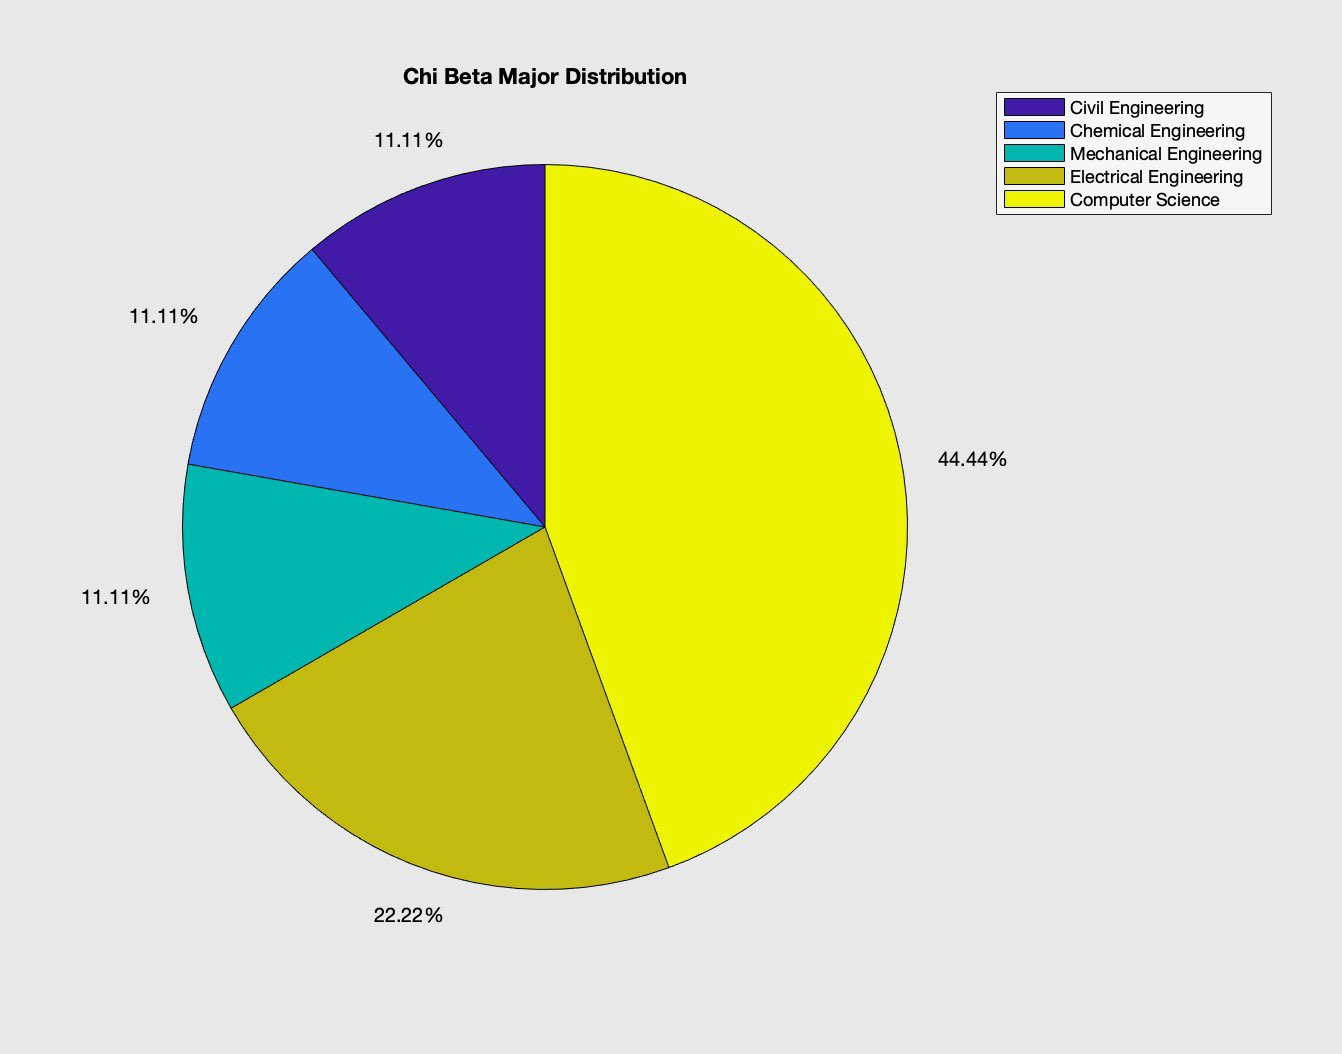
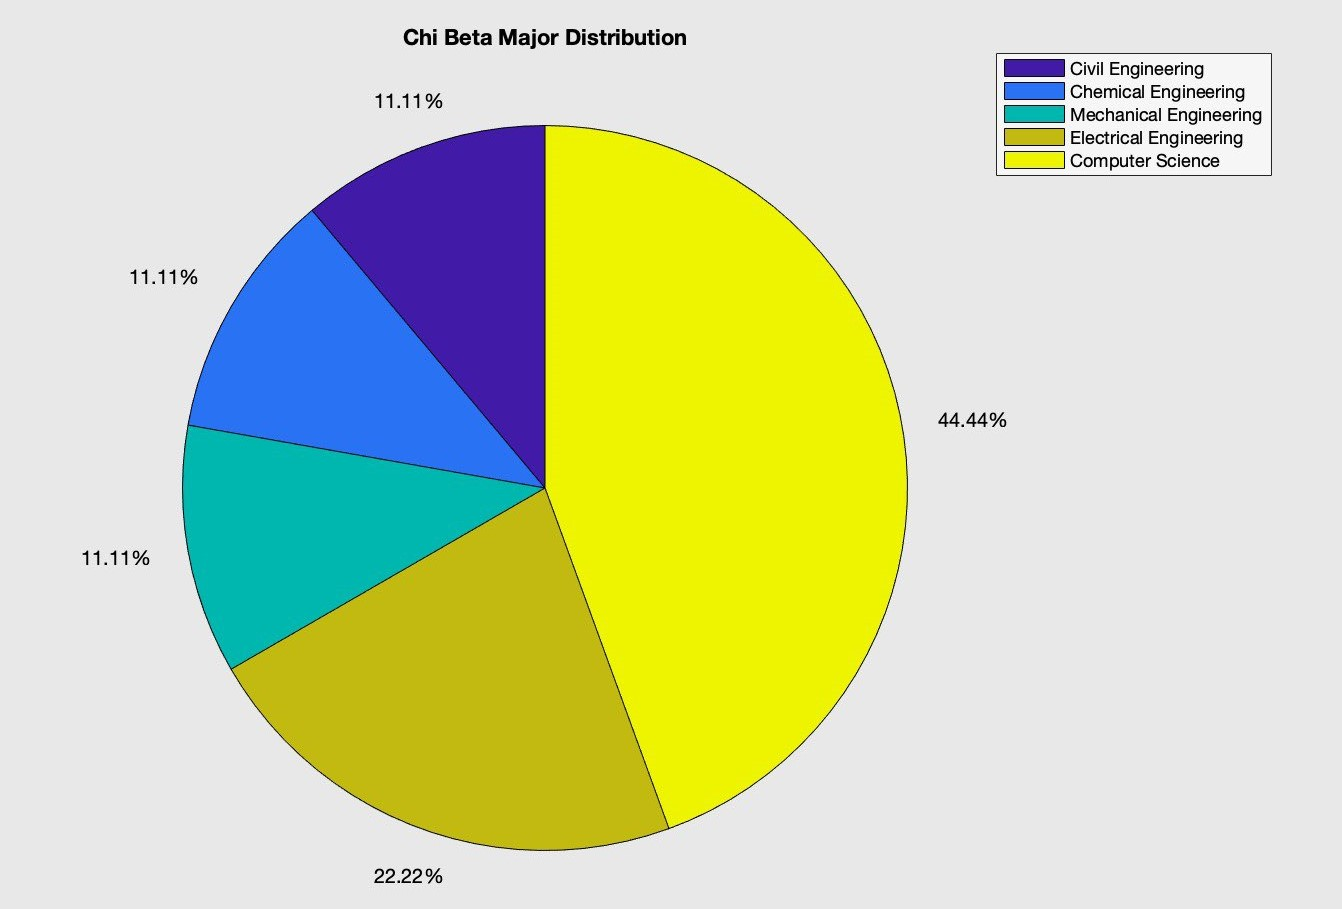
personal page

diff --git a/Main Page/Hao Zhu.html b/Main Page/Hao Zhu.html
@@ -12,6 +12,7 @@
     <link href="https://fonts.googleapis.com/css2?family=Josefin+Sans&display=swap" rel="stylesheet"> 
     <link rel="canonical" href="https://getbootstrap.com/docs/5.2/examples/carousel/">
     <link href="PB.min.css" rel="stylesheet">
+    <link rel="shortcut icon" href="https://thetatau.wpengine.com/wp-content/uploads/2022/05/logo-crest-footer.svg" type="image/x-icon"/>
 
     <style>
       .bd-placeholder-img {
@@ -120,12 +121,12 @@
       <a href="https://www.linkedin.com/in/hao-qin-zhu-68b4831b5/" target="_blank"><button type="button" class="btn btn-danger">My LinkedIn Profile</button></a>
       <hr class="featurette divider">
       <h1 style = color:darkred>My Pledging Experience</h1>
-        <h3 style = color:#f0ad4e >Construction (Cutting)</h3>
-        <p style =color:#000000>During the cutting phase of the construction project, I learned to make use of different tools in the woodshop, like the table saw, band saw, wall saw, and chop saw. Coordination during this phase was crucial as well, and I improved my time management skills by working out time slots with my pledge brothers to see who can go to the woodshop and who can stay at lab staffing.</p>
-        <h3 style = color:#f0ad4e >Construction (Assembly)</h3>
-        <p style =color:#000000>During the assembling phase of the construction project, I learned the intricate details on how the pieces of wood are put together. Before this I never thought about what goes inside a structure to make it stable, and I learned that supports were put inside. During the painting phase, I learned that it takes multiple coats of paint for the intended shade of a color to show when it dries.</p>
+        <h3 style = color:#f0ad4e >Construction</h3>
+        <p style =color:#000000>During the cutting phase of the construction project, I learned to make use of different tools in the woodshop, like the table saw, band saw, wall saw, and chop saw. Coordination during this phase was crucial as well, and I improved my time management skills by working out time slots with my pledge brothers to see who can go to the woodshop and who can stay at lab staffing. During the assembling phase of the construction project, I learned the intricate details on how the pieces of wood are put together. Before this I never thought about what goes inside a structure to make it stable, and I learned that supports were put inside. During the painting phase, I learned that it takes multiple coats of paint for the intended shade of a color to show when it dries.</p>
         <h3 style = color:#f0ad4e >Coding</h3>
         <p style =color:#000000>Currently, me and my pledge brothers are working together to bring this website to fruition. I enjoyed both working with my computer science pledge brothers as well as guiding my non computer science pledge brothers on how to work on the pages of the site. What you see currently is the culmination of our dedicated time and hard work.</p>
+        <h3 style = color:#f0ad4e >Being the Scribe</h3>
+        <p style =color:#000000>As the Scribe of our pledge class, I am responsible for taking notes on what occurs during our chapter and pledge meetings. Additionally, I send out reminders to my pledge brothers about upcoming events as well as important dates that we should know. I have also created answer keys to our quizzes for the pledge brothers that are struggling to remember the material.</p>
       </ul></p>
       <hr class="featurette-divider">
       <h1 style = color:darkred>Job Interests</h1>
@@ -137,6 +138,7 @@
         <li style =color:#000000>Since starting this website project, I realized that I am interested in doing UI/UX design as well. I have enjoyed working on this project with my pledge brothers and working out how the website looks and feels to the eyes of the user.</li>
         </ul></p>
       <hr class="featurette-divider"> 
+      <h1 style = color:darkred>Personal Gallery</h1>
     </div>
      <div class="row" style =color:#000000>
       <div class="col-lg-4">

diff --git a/Main Page/PNM.html b/Main Page/PNM.html
@@ -199,7 +199,7 @@
     
 
     <h1 style="text-align:center; color:#610505; font-size:50px"><b>Potential New Member Major Distribution</b></h1>
-    <center><img src="Major-Distributions.jpeg" width="75%"></center>
+    <center><img src="Major-Distributions.jpeg" width="60%"></center>
 
    
 
@@ -213,7 +213,7 @@
     
     <h1 style="text-align:center; color:#610505; font-size:50px"><b>Quiz Stats</b></h1>
 
-    <center><img src="Quiz_Graph.jpg" width="75%"></center>
+    <center><img src="Quiz_Graph.jpg" width="60%"></center>
 
 
 
